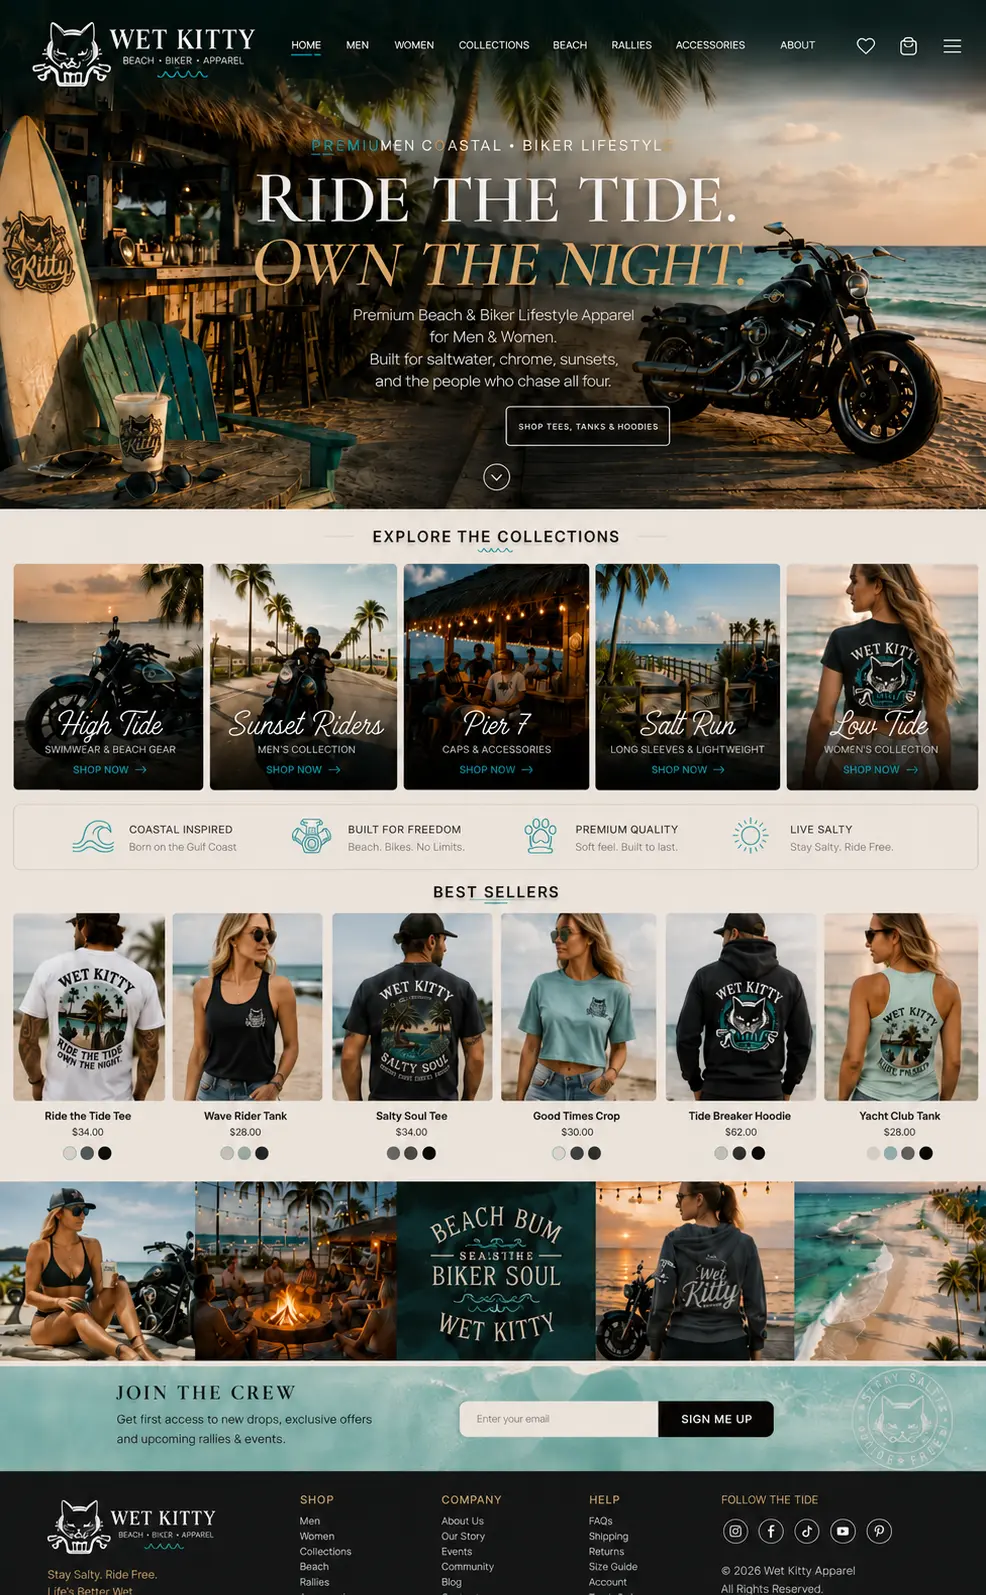
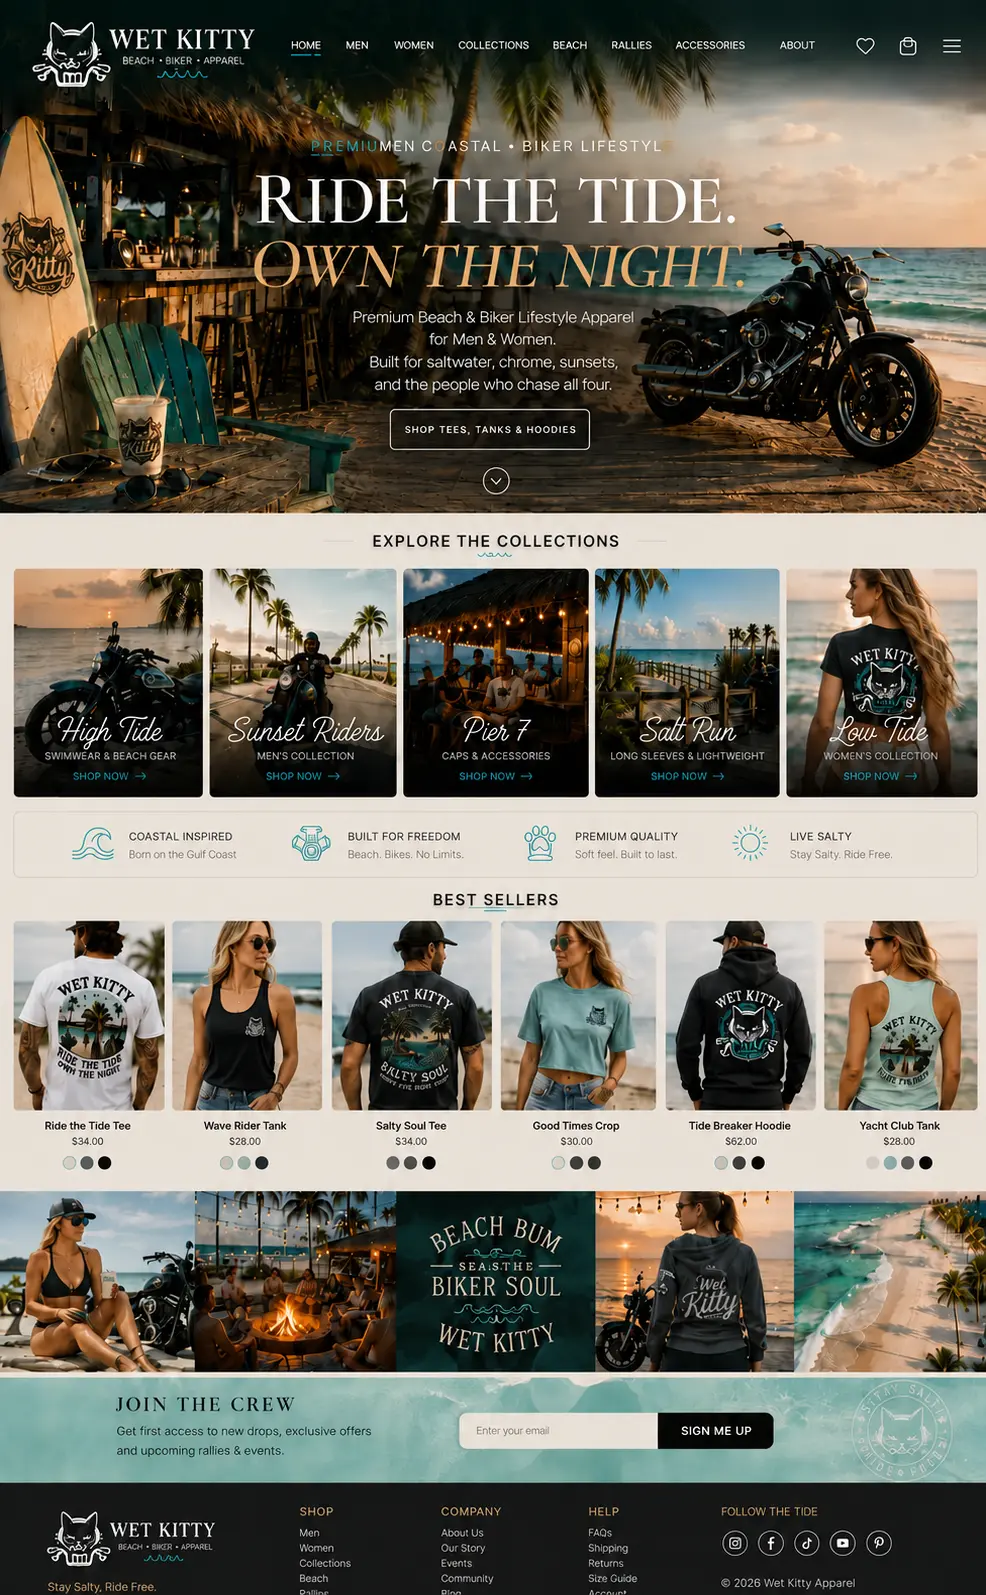
Center the remaining hero button

Changed region(s): [[0.0, 0.0307, 1.0, 1.0], [0.1826, 0.0, 0.213, 0.0307], [0.1217, 0.0, 0.1521, 0.0307]]

diff --git a/client/src/pages/Home.tsx b/client/src/pages/Home.tsx
@@ -60,7 +60,7 @@ export default function Home() {
       </div>
 
       {/* Make the two hero buttons in the approved artwork functional. */}
-      <Hotspot href="/collections/apparel" label="Shop tees, tanks, and hoodies" x={50.9} y={25.1} w={16.7} h={2.75} />
+      <Hotspot href="/collections/apparel" label="Shop tees, tanks, and hoodies" x={39.5} y={25.6} w={20.5} h={2.75} />
 
       {/* Collection cards */}
       <Hotspot href="/collections/beach" label="High Tide collection" x={1.3} y={33.8} w={18.7} h={13.8} />
